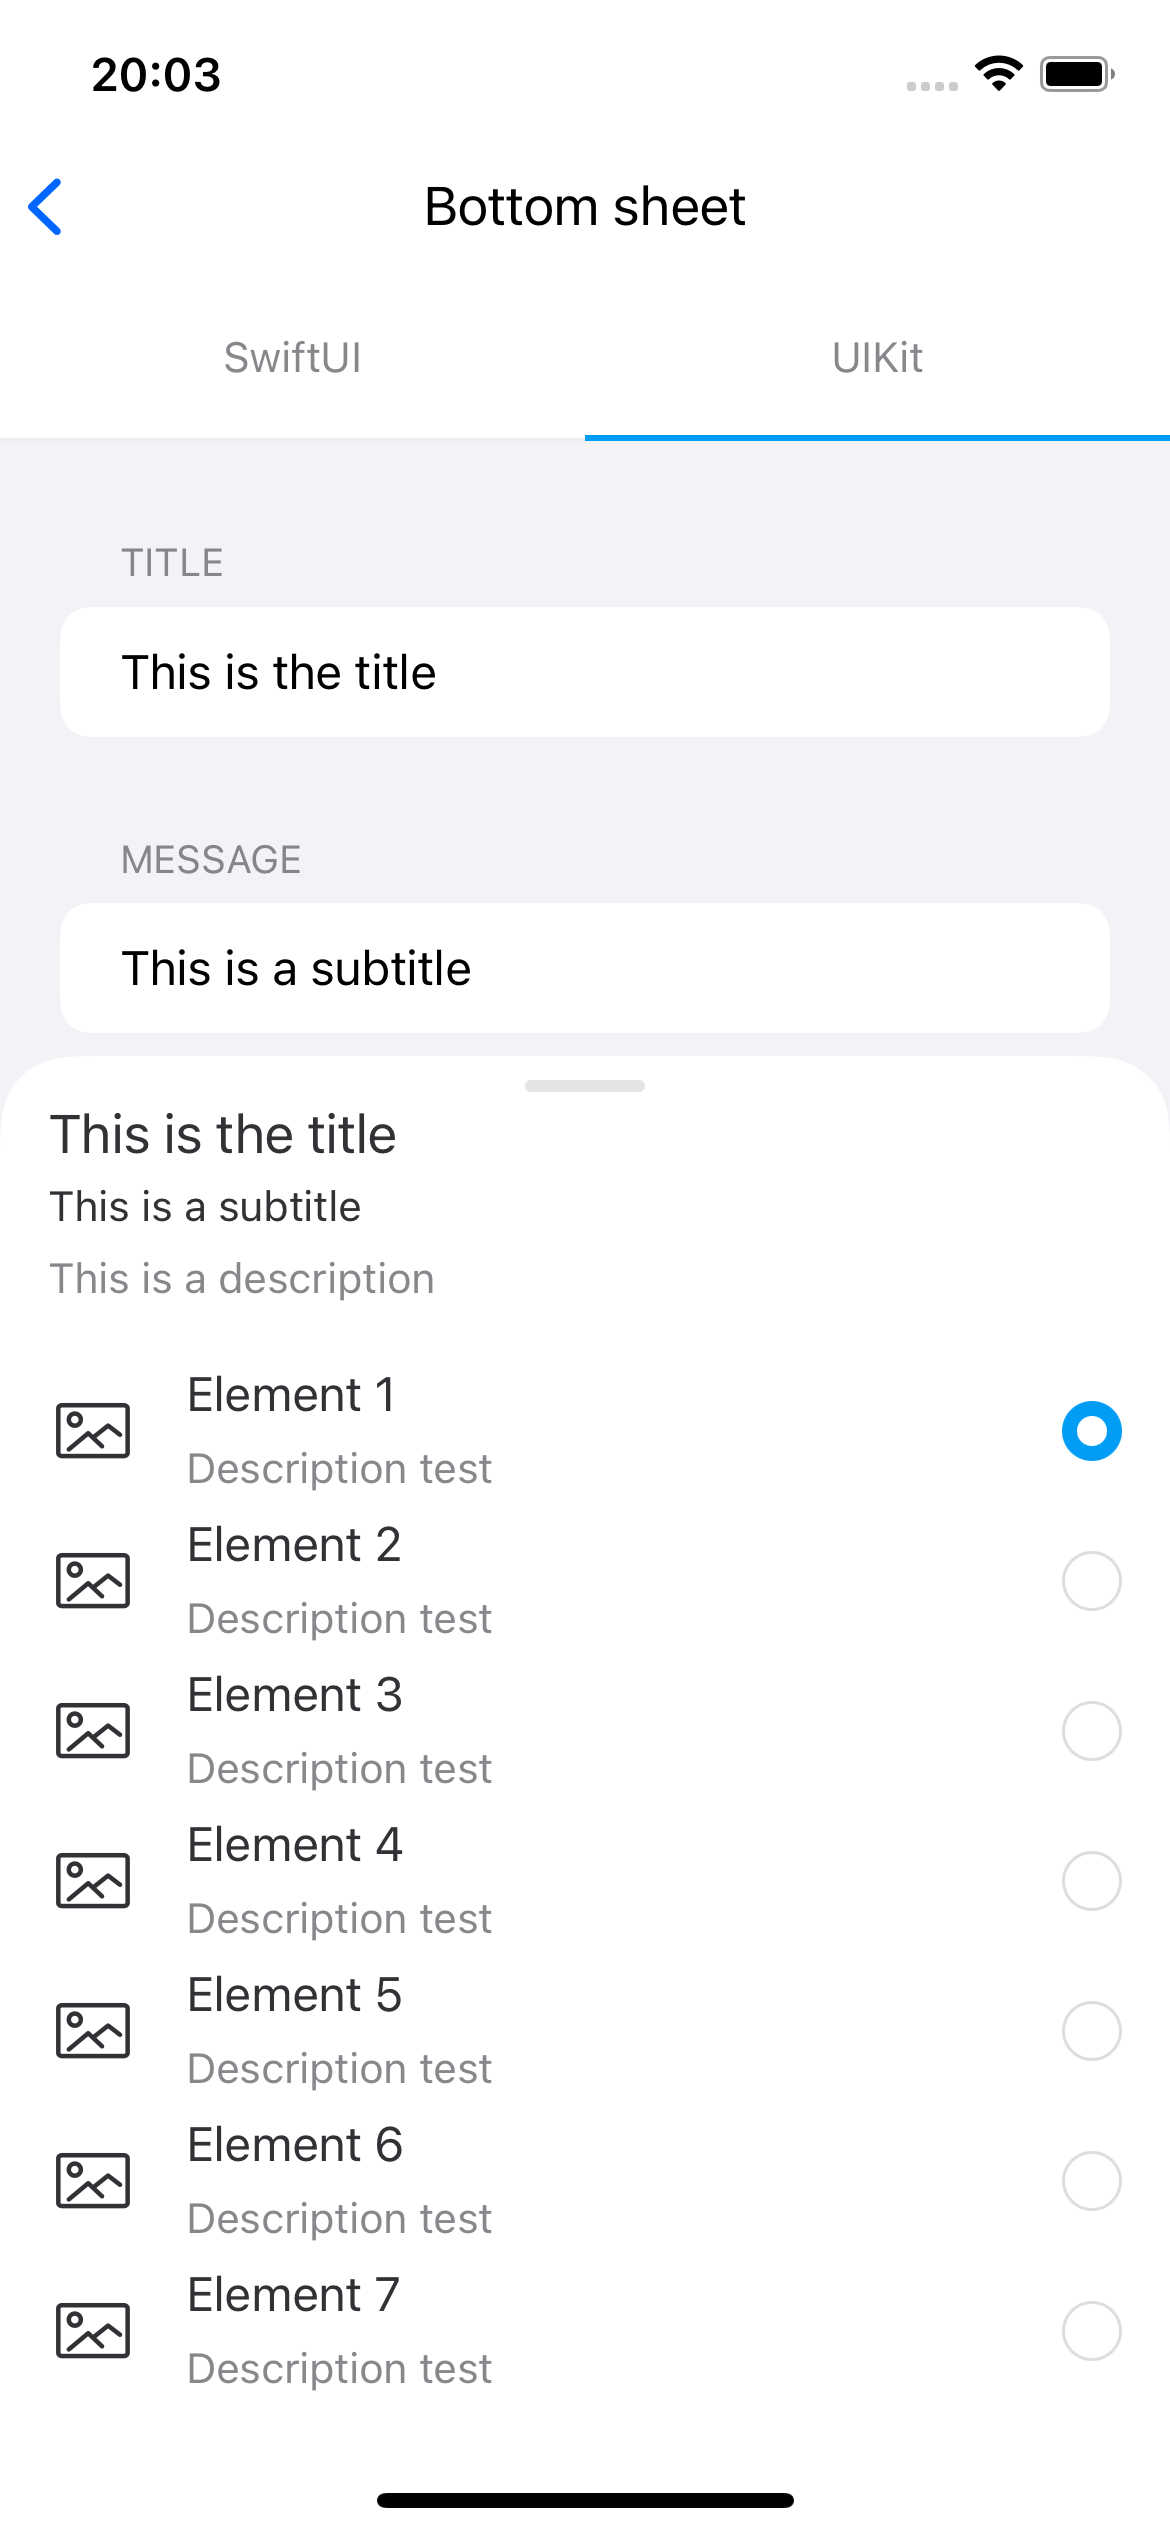
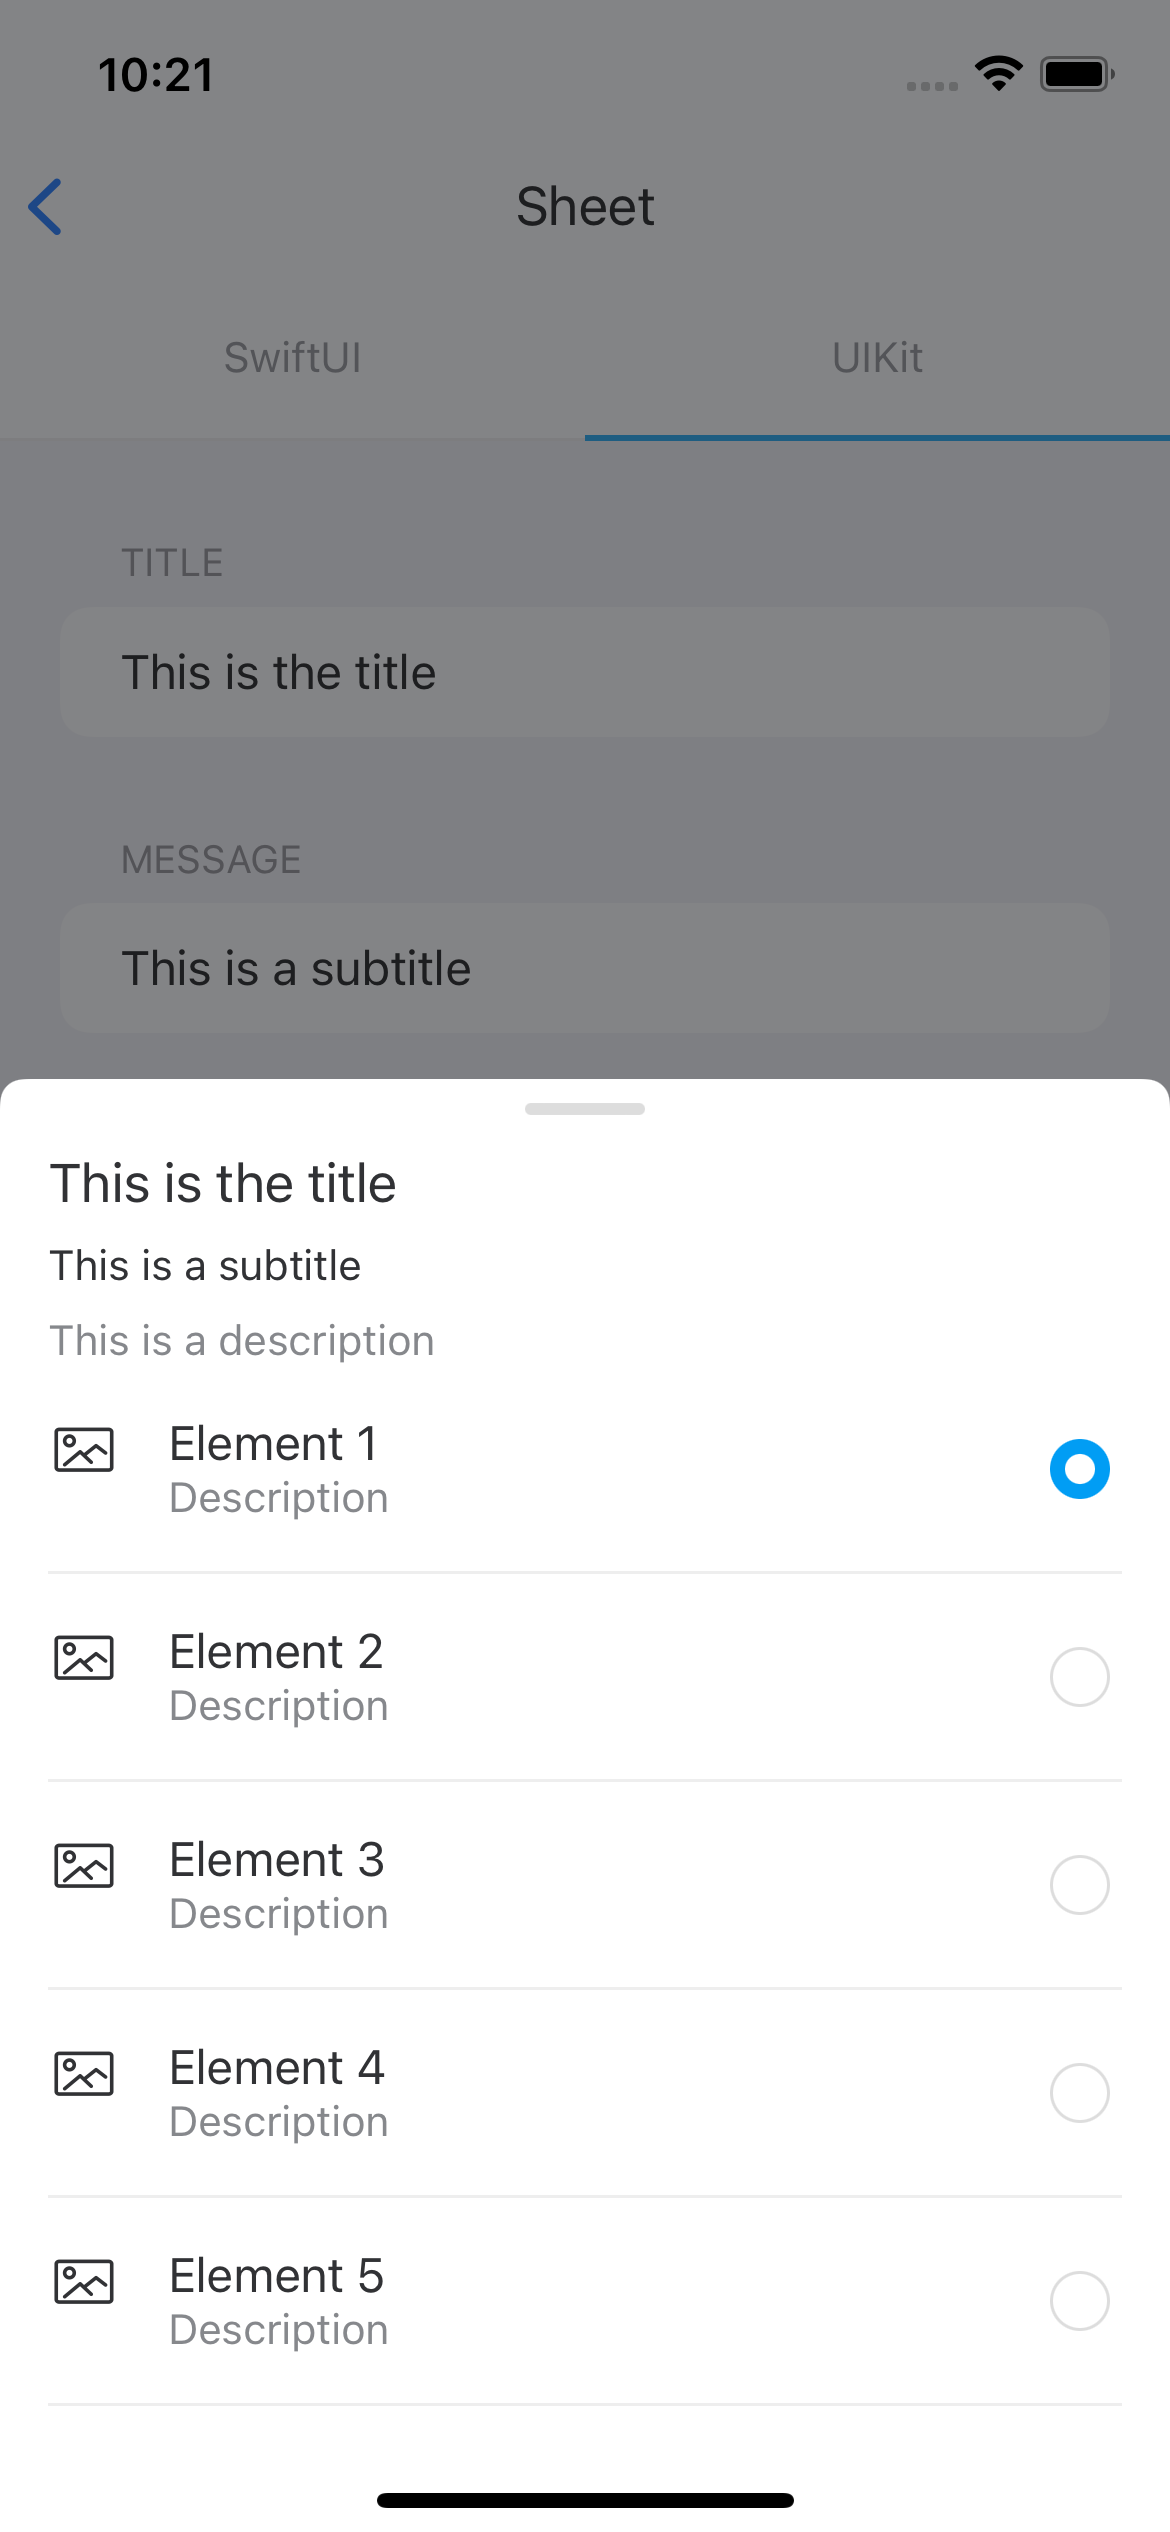
feat(BottomSheet): Add new Bottom Sheet component

diff --git a/Sources/Mistica/Components/Sheet/README.md b/Sources/Mistica/Components/Sheet/README.md
@@ -1,0 +1,18 @@
+#  Sheet
+
+Sheet provide lightweight bottom selector view. They show a brief message at the bottom of the screen. It is possible to display different types of content, although currently support is made for a single selection list. Each row of the list can be composed of an icon, text and a radioButton to select the option.
+
+<p align="center">
+<img width="400" alt="portfolio_view" src="./docs/images/list-single-selection.png">
+</p>
+
+## Usage
+
+To display a sheet, make an instance of `SheetViewController` class, the controller has a `SheetView` that is self-managing in its presentation. It is also necessary to instantiate and assign as transition delegate to the `SheetTransitioningDelegate` class.
+
+## Dismiss / Submit
+
+The presentation of the Sheet is currently disabled by selecting an option in the list or by performing any gesture outside the sheet or a drag down gesture on the component itself. 
+
+In all cases a handler of the response selected by default or by the user is performed right now.
+
